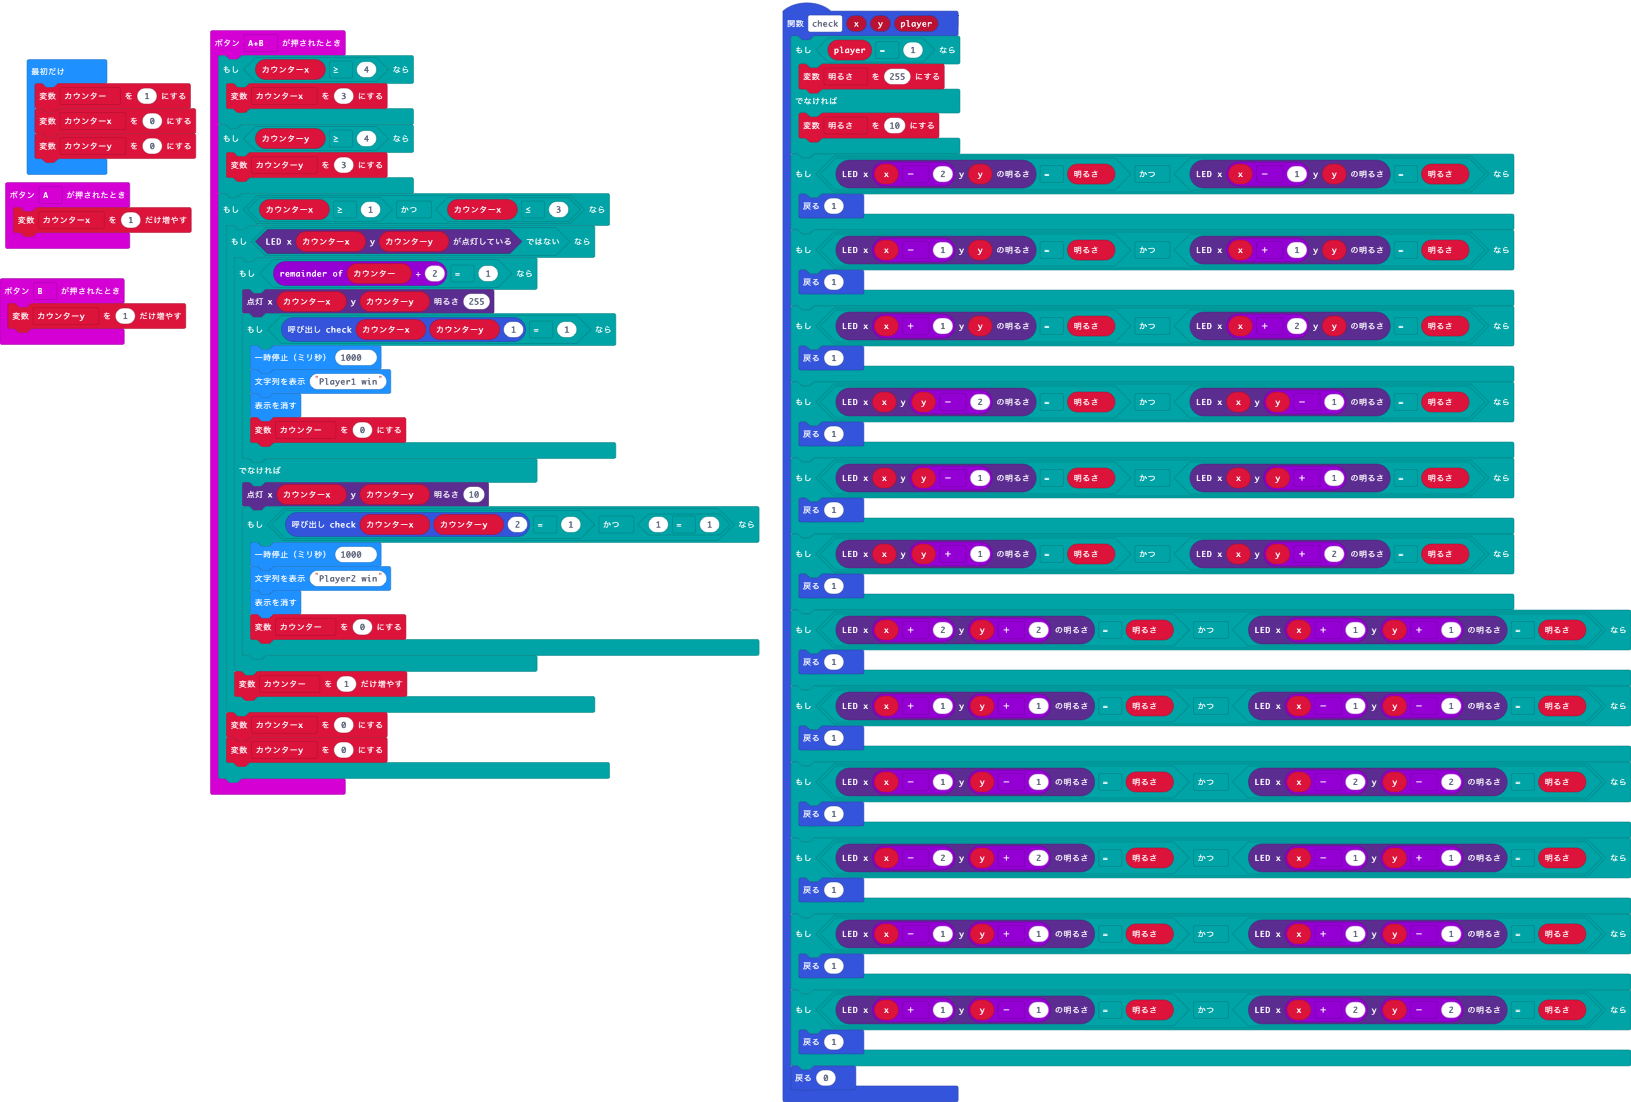
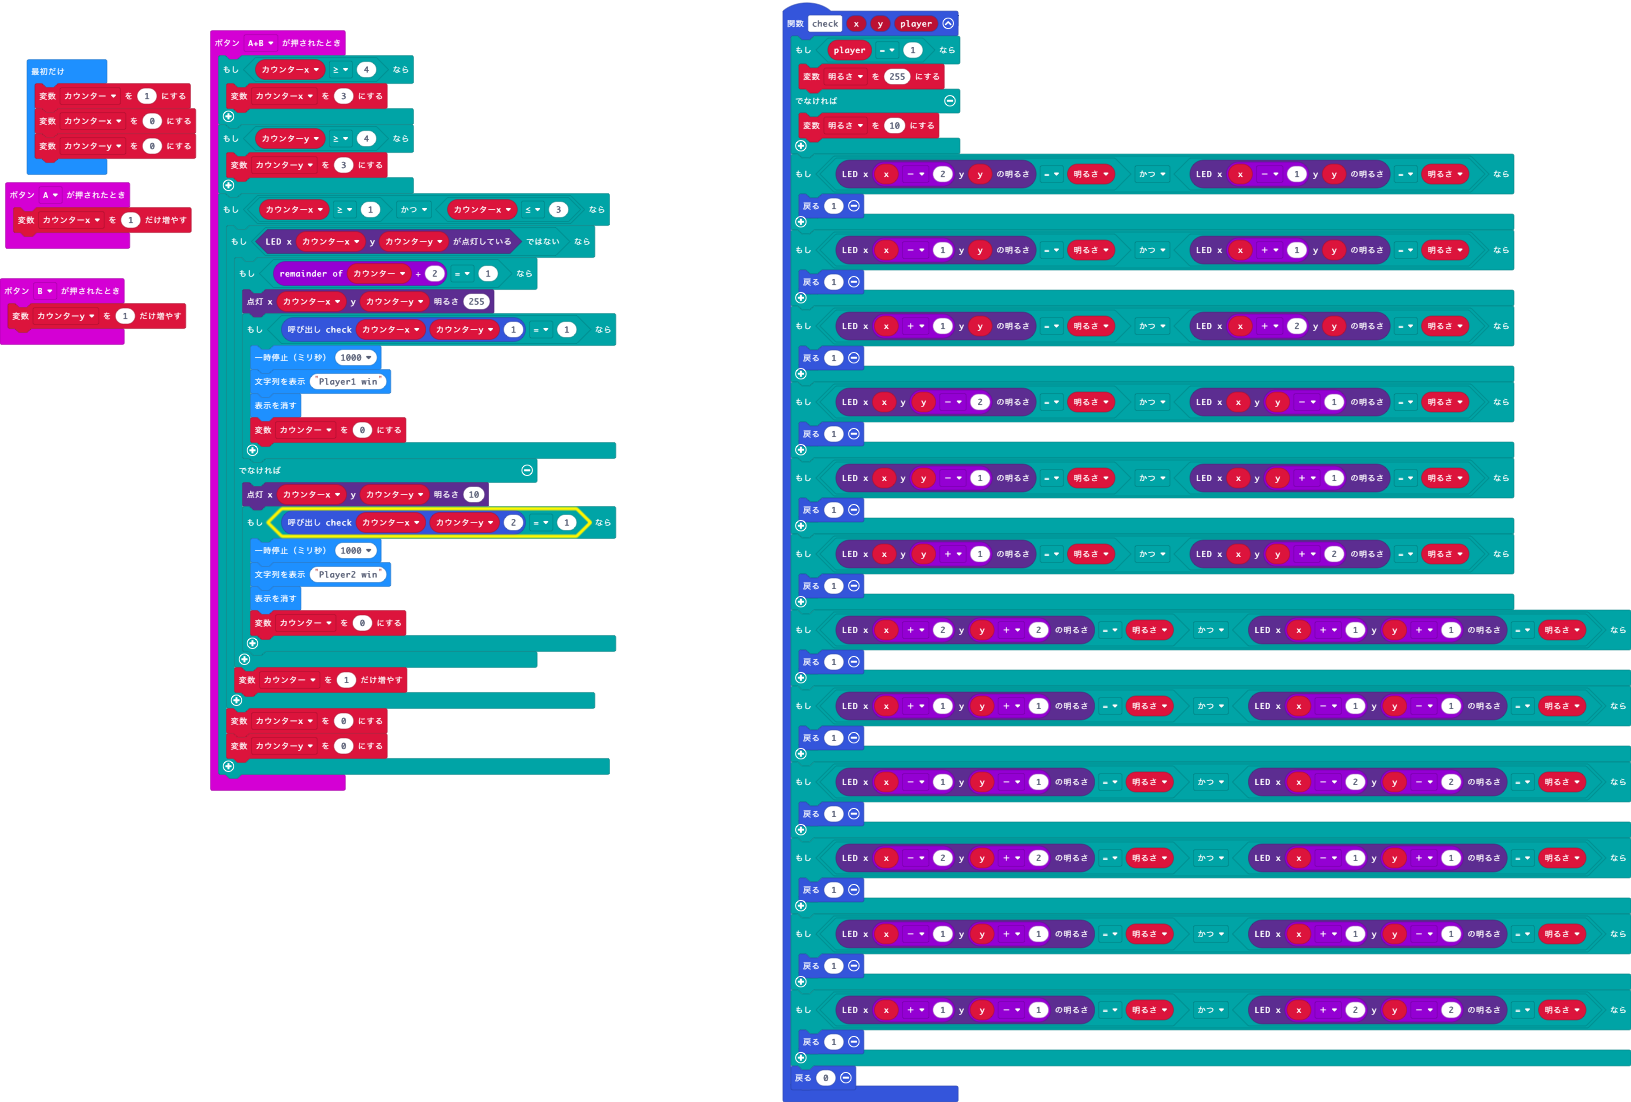
更新 main.blocks, main.ts

Changed region(s): [[0.1226, 0.4319, 0.4905, 0.7405]]

diff --git a/main.ts b/main.ts
@@ -64,7 +64,7 @@ input.onButtonPressed(Button.AB, function () {
                 }
             } else {
                 led.plotBrightness(カウンターx, カウンターy, 10)
-                if (check(カウンターx, カウンターy, 2) == 1 && 1 == 1) {
+                if (check(カウンターx, カウンターy, 2) == 1) {
                     basic.pause(1000)
                     basic.showString("Player2 win")
                     basic.clearScreen()
